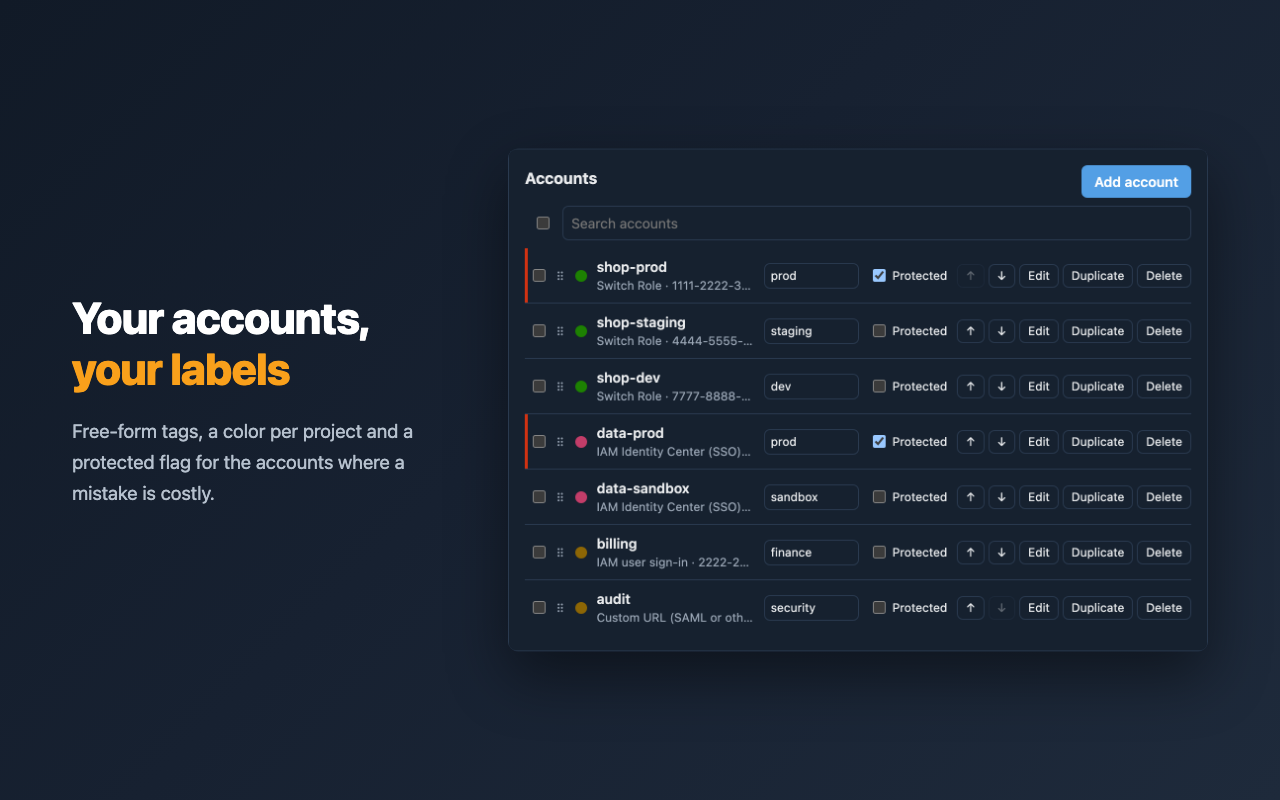
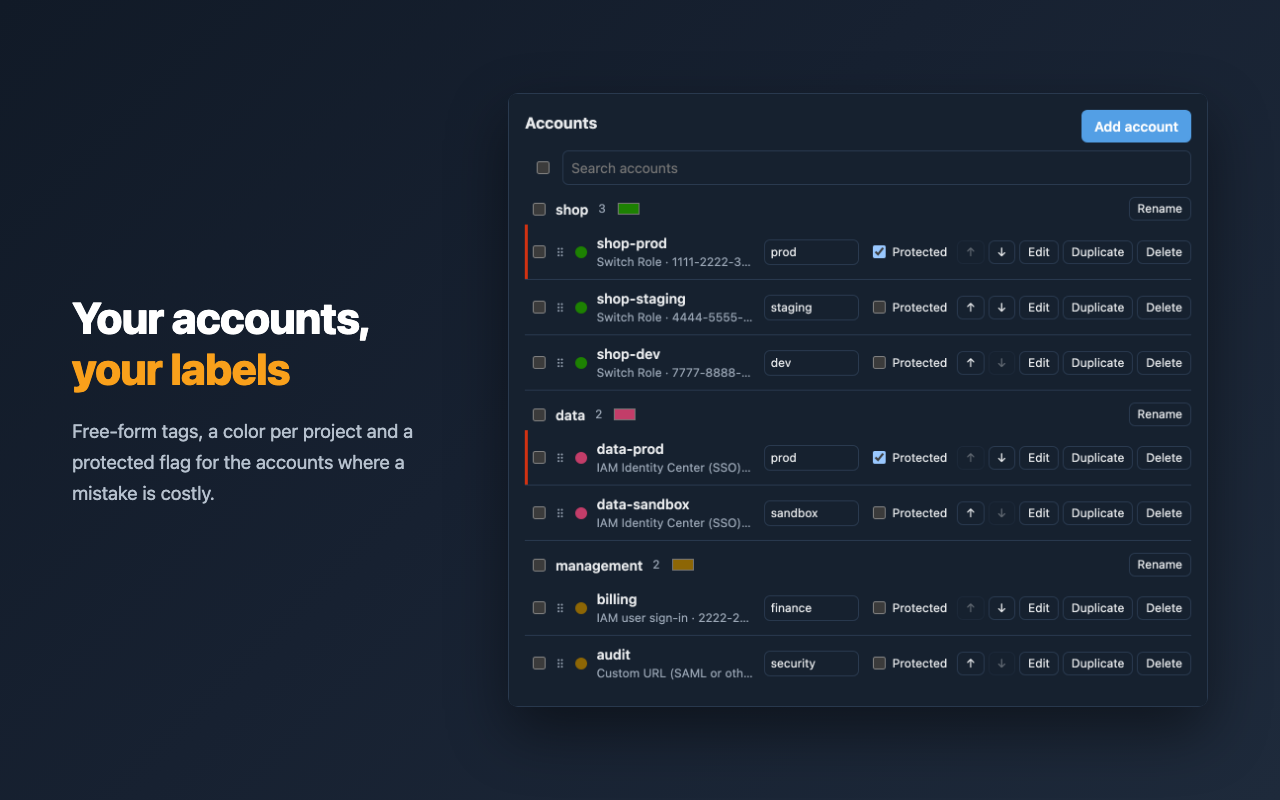
feat: group the options account list with per-group edit actions

diff --git a/src/options/list.js b/src/options/list.js
@@ -1,7 +1,9 @@
 import { t } from '../i18n/index.js';
-import { keepSelected, moveBy, moveNextTo, selectionState, selectRange, suggestionsFor } from '../lib/listEdit.js';
-import { normalizeProfile, profileColor, profileMeta, validateProfile } from '../lib/profile.js';
-import { filterProfiles } from '../lib/search.js';
+import {
+  bulkEdit, dropMove, groupColor, groupIds, keepSelected, moveBy, selectionState, selectRange, suggestionsFor,
+} from '../lib/listEdit.js';
+import { GROUP_MAX, normalizeProfile, profileColor, profileMeta, validateProfile } from '../lib/profile.js';
+import { filterProfiles, groupProfiles } from '../lib/search.js';
 import { SUGGESTED_TAGS, TAG_MAX } from '../lib/tag.js';
 import { getProvider } from '../providers/index.js';
 import { $, element, option } from './dom.js';
@@ -53,7 +55,7 @@ export function createAccountList({ store, profiles, reload, onEdit, undo }) {
   const shownIds = () => shown.map((profile) => profile.id);
   const allIds = () => profiles().map((profile) => profile.id);
 
-  function profileRow(profile, index, reorderable) {
+  function profileRow(profile, { reorderable, first, last }) {
     const row = element('li', profile.guarded ? 'profile guarded' : 'profile');
     row.dataset.id = profile.id;
     const pick = element('input', 'pick');
@@ -70,8 +72,8 @@ export function createAccountList({ store, profiles, reload, onEdit, undo }) {
     main.append(element('div', 'name', profile.name), element('div', 'meta', metaLine(profile)));
     const tools = element('div', 'tools');
     tools.append(
-      toolButton('↑', 'up', { disabled: !reorderable || index === 0, aria: t('options.moveUp') }),
-      toolButton('↓', 'down', { disabled: !reorderable || index === shown.length - 1, aria: t('options.moveDown') }),
+      toolButton('↑', 'up', { disabled: !reorderable || first, aria: t('options.moveUp') }),
+      toolButton('↓', 'down', { disabled: !reorderable || last, aria: t('options.moveDown') }),
       toolButton(t('options.edit'), 'edit'),
       toolButton(t('options.duplicate'), 'duplicate'),
       toolButton(t('options.delete'), 'delete'),
@@ -80,13 +82,41 @@ export function createAccountList({ store, profiles, reload, onEdit, undo }) {
     return row;
   }
 
+  function groupHead({ group, profiles: members }, all) {
+    const head = element('li', 'group-head');
+    head.dataset.group = group;
+    const name = group || t('options.group.none');
+    const pick = element('input', 'pick');
+    pick.type = 'checkbox';
+    pick.dataset.action = 'select-group';
+    pick.setAttribute('aria-label', t('options.group.selectOf', { name }));
+    head.append(pick, element('span', 'group-name', name), element('span', 'muted group-count', String(members.length)));
+    if (group) {
+      const color = element('input', 'group-color');
+      color.type = 'color';
+      color.value = groupColor(all, group) ?? profileColor(members[0]);
+      color.dataset.action = 'group-color';
+      color.setAttribute('aria-label', t('options.group.colorOf', { name }));
+      head.append(color, toolButton(t('options.group.rename'), 'rename-group', { aria: t('options.group.renameOf', { name }) }));
+    }
+    return head;
+  }
+
   // Search results are ranked rather than in the stored order, so moving a row there would land somewhere unexpected.
+  // Otherwise rows follow the popup: one block per group, so the arrows stay inside it and a drop can change it.
   function render() {
     const all = profiles();
-    shown = filterProfiles(all, query);
-    selected = keepSelected(selected, shownIds());
     const reorderable = !searching();
-    list.replaceChildren(...shown.map((profile, index) => profileRow(profile, index, reorderable)));
+    const sections = reorderable ? groupProfiles(all) : [{ group: '', profiles: filterProfiles(all, query) }];
+    const headed = sections.some((section) => section.group);
+    shown = sections.flatMap((section) => section.profiles);
+    selected = keepSelected(selected, shownIds());
+    list.replaceChildren(...sections.flatMap((section) => [
+      ...(headed ? [groupHead(section, all)] : []),
+      ...section.profiles.map((profile, index) => profileRow(profile, {
+        reorderable, first: index === 0, last: index === section.profiles.length - 1,
+      })),
+    ]));
     $('list-tools').hidden = all.length === 0;
     $('no-profiles').hidden = all.length > 0;
     $('no-match').hidden = all.length === 0 || shown.length > 0;
@@ -101,10 +131,16 @@ export function createAccountList({ store, profiles, reload, onEdit, undo }) {
     all.checked = state === 'all';
     all.indeterminate = state === 'some';
     all.disabled = shown.length === 0;
-    for (const row of list.children) {
+    for (const row of list.querySelectorAll('.profile')) {
       const on = selected.has(row.dataset.id);
       row.classList.toggle('selected', on);
       row.querySelector('[data-action="select"]').checked = on;
+    }
+    for (const head of list.querySelectorAll('.group-head')) {
+      const groupState = selectionState(selected, groupIds(shown, head.dataset.group));
+      const box = head.querySelector('[data-action="select-group"]');
+      box.checked = groupState === 'all';
+      box.indeterminate = groupState === 'some';
     }
     $('bulk-bar').hidden = selected.size === 0;
     $('bulk-count').textContent = t('options.bulk.count', { count: selected.size });
@@ -135,6 +171,48 @@ export function createAccountList({ store, profiles, reload, onEdit, undo }) {
     renderSelection();
   }
 
+  function toggleGroup(box) {
+    const ids = groupIds(shown, box.closest('.group-head').dataset.group);
+    const next = new Set(selected);
+    for (const id of ids) {
+      if (box.checked) next.add(id);
+      else next.delete(id);
+    }
+    setSelection([...next]);
+  }
+
+  async function saveChanged(next) {
+    if (next.length) await store.saveProfiles(next);
+    await reload();
+  }
+
+  /** Swaps the group name for an input; Enter or leaving it renames every account in the group, Escape cancels. */
+  function startRename(head) {
+    const from = head.dataset.group;
+    const input = element('input', 'group-rename');
+    input.value = from;
+    input.maxLength = GROUP_MAX;
+    input.setAttribute('aria-label', t('options.group.renameOf', { name: from }));
+    head.querySelector('.group-name').replaceWith(input);
+    input.focus();
+    input.select();
+    let done = false;
+    const finish = (save) => {
+      if (done) return undefined;
+      done = true;
+      if (!save || input.value.trim() === from) return render();
+      return saveChanged(bulkEdit(profiles(), groupIds(profiles(), from), { group: input.value }));
+    };
+    input.addEventListener('keydown', (event) => {
+      if (event.key === 'Enter') finish(true);
+      else if (event.key === 'Escape') {
+        event.preventDefault();
+        finish(false);
+      }
+    });
+    input.addEventListener('blur', () => finish(true));
+  }
+
   function setSelection(ids) {
     selected = new Set(ids);
     selectionAnchor = null;
@@ -144,13 +222,15 @@ export function createAccountList({ store, profiles, reload, onEdit, undo }) {
   list.addEventListener('click', async (event) => {
     // A click event, not change, because only the click carries the Shift key.
     if (event.target.dataset.action === 'select') return toggleSelected(event.target, event.shiftKey);
+    if (event.target.dataset.action === 'select-group') return toggleGroup(event.target);
     const button = event.target.closest('button[data-action]');
     if (!button) return undefined;
+    if (button.dataset.action === 'rename-group') return startRename(button.closest('.group-head'));
     const id = button.closest('.profile').dataset.id;
     const profile = profiles().find((other) => other.id === id);
     switch (button.dataset.action) {
-      case 'up': return reorder(moveBy(allIds(), id, -1));
-      case 'down': return reorder(moveBy(allIds(), id, 1));
+      case 'up': return reorder(moveBy(shownIds(), id, -1));
+      case 'down': return reorder(moveBy(shownIds(), id, 1));
       case 'edit': return onEdit(profile);
       case 'duplicate': return onEdit({ ...profile, id: null, name: t('options.copyName', { name: profile.name }) });
       case 'delete':
@@ -163,6 +243,11 @@ export function createAccountList({ store, profiles, reload, onEdit, undo }) {
   // Inline edits save on change (blur or Enter for the tag), so the list never needs a separate save button.
   list.addEventListener('change', (event) => {
     const action = event.target.dataset.action;
+    if (action === 'group-color') {
+      const { group } = event.target.closest('.group-head').dataset;
+      saveChanged(bulkEdit(profiles(), groupIds(profiles(), group), { color: event.target.value }));
+      return;
+    }
     if (action !== 'tag' && action !== 'guarded') return;
     const profile = profiles().find((other) => other.id === event.target.closest('.profile').dataset.id);
     updateInline(profile, action === 'tag' ? { tag: event.target.value } : { guarded: event.target.checked });
@@ -181,7 +266,11 @@ export function createAccountList({ store, profiles, reload, onEdit, undo }) {
 
   attachDrag(list, {
     canDrag: () => !searching(),
-    onDrop: (id, targetId, after) => reorder(moveNextTo(allIds(), id, targetId, after)),
+    onDrop: async (id, targetId, after) => {
+      const { order, regrouped } = dropMove(profiles(), shownIds(), id, targetId, after);
+      if (regrouped) await store.saveProfiles([regrouped]);
+      await reorder(order);
+    },
   });
 
   return {

diff --git a/tests/listEdit.test.js b/tests/listEdit.test.js
@@ -1,6 +1,6 @@
 import { describe, test, expect } from '@jest/globals';
 import {
-  bulkEdit, keepSelected, moveBy, moveNextTo, restoredOrder, selectionState, selectRange, suggestionsFor,
+  bulkEdit, dropMove, groupColor, groupIds, keepSelected, moveBy, moveNextTo, restoredOrder, selectionState, selectRange, suggestionsFor,
 } from '../src/lib/listEdit.js';
 import { normalizeProfile } from '../src/lib/profile.js';
 
@@ -98,6 +98,10 @@ describe('bulkEdit', () => {
     expect(bulkEdit(profiles, ['a', 'b'], { tag: '' }).map((p) => p.tag)).toEqual(['', '']);
   });
 
+  test('sets a color, normalized', () => {
+    expect(bulkEdit(profiles, ['b'], { color: '#ABCDEF' }).map((p) => p.color)).toEqual(['#abcdef']);
+  });
+
   test('ignores every other field', () => {
     expect(bulkEdit(profiles, ['a'], { name: 'renamed', id: 'z', fields: {} })).toEqual([]);
   });
@@ -127,5 +131,34 @@ describe('restoredOrder', () => {
 
   test('ids added since the delete go last, and ids removed since stay out', () => {
     expect(restoredOrder(['a', 'b', 'c'], ['b', 'x', 'c'])).toEqual(['b', 'c', 'x']);
+  });
+});
+
+describe('groups', () => {
+  const profiles = [
+    profile('a', { group: 'shop' }), profile('b', { group: 'data' }), profile('c', { group: 'shop' }), profile('d'),
+  ];
+
+  test('groupIds lists the members, and the empty name the accounts in no group', () => {
+    expect(groupIds(profiles, 'shop')).toEqual(['a', 'c']);
+    expect(groupIds(profiles, '')).toEqual(['d']);
+  });
+
+  test('groupColor is the color every member shares, else null', () => {
+    const colored = profiles.map((p) => (p.group === 'shop' ? { ...p, color: '#123456' } : p));
+    expect(groupColor(colored, 'shop')).toBe('#123456');
+    expect(groupColor(colored.map((p) => (p.id === 'c' ? { ...p, color: '#654321' } : p)), 'shop')).toBeNull();
+    expect(groupColor(profiles, 'shop')).toBeNull();
+    expect(groupColor(colored, '')).toBeNull();
+    expect(groupColor(colored, 'none')).toBeNull();
+  });
+
+  test('a drop moves the row and, onto another group, moves it into that group', () => {
+    const shown = ['a', 'c', 'b', 'd'];
+    expect(dropMove(profiles, shown, 'c', 'a', false)).toEqual({ order: ['c', 'a', 'b', 'd'], regrouped: null });
+    const across = dropMove(profiles, shown, 'd', 'b', true);
+    expect(across.order).toEqual(['a', 'c', 'b', 'd']);
+    expect([across.regrouped.id, across.regrouped.group]).toEqual(['d', 'data']);
+    expect(dropMove(profiles, shown, 'x', 'a', false).regrouped).toBeNull();
   });
 });

diff --git a/src/lib/listEdit.js b/src/lib/listEdit.js
@@ -1,7 +1,7 @@
 import { normalizeProfile } from './profile.js';
 
 // The fields the options page can change on many accounts at once.
-const BULK_FIELDS = Object.freeze(['tag', 'group', 'guarded']);
+const BULK_FIELDS = Object.freeze(['tag', 'group', 'guarded', 'color']);
 
 /** Moves `id` by `delta` places, stopping at either end. */
 export function moveBy(ids, id, delta) {
@@ -46,7 +46,7 @@ export function selectionState(selected, ids) {
   return count === ids.length ? 'all' : 'some';
 }
 
-/** The profiles in `ids` with the tag, group or guarded flag in `changes` applied, leaving out those it does not change. */
+/** The profiles in `ids` with the tag, group, guarded flag or color in `changes` applied, leaving out those it does not change. */
 export function bulkEdit(profiles, ids, changes) {
   const patch = Object.fromEntries(BULK_FIELDS.filter((key) => Object.hasOwn(changes, key)).map((key) => [key, changes[key]]));
   const chosen = new Set(ids);
@@ -69,4 +69,25 @@ export function restoredOrder(previous, current) {
   const present = new Set(current);
   const before = new Set(previous);
   return [...previous.filter((id) => present.has(id)), ...current.filter((id) => !before.has(id))];
+}
+
+/** The ids of the accounts in `group`; an empty group name means the accounts in none. */
+export function groupIds(profiles, group) {
+  return profiles.filter((profile) => profile.group === group).map((profile) => profile.id);
+}
+
+/** The color every account in `group` shares when one was chosen for all of them, else null. */
+export function groupColor(profiles, group) {
+  if (!group) return null;
+  const colors = new Set(profiles.filter((profile) => profile.group === group).map((profile) => profile.color));
+  return colors.size === 1 ? [...colors][0] : null;
+}
+
+/** Where a dragged row lands: the new order, and its profile moved into the target row's group when that differs. */
+export function dropMove(profiles, ids, id, targetId, after) {
+  const byId = new Map(profiles.map((profile) => [profile.id, profile]));
+  const source = byId.get(id);
+  const target = byId.get(targetId);
+  const regrouped = source && target && source.group !== target.group ? normalizeProfile({ ...source, group: target.group }) : null;
+  return { order: moveNextTo(ids, id, targetId, after), regrouped };
 }

diff --git a/src/options/editor.js b/src/options/editor.js
@@ -1,5 +1,6 @@
 import { richText } from '../i18n/dom.js';
 import { t } from '../i18n/index.js';
+import { groupColor } from '../lib/listEdit.js';
 import { accountFromHash } from '../lib/messages.js';
 import {
   buildProfileUrl, fieldValues, FIELD_PREFIX, GROUP_MAX, NAME_MAX, normalizeProfile, profileColor, sameTargetAs, validateProfile,
@@ -56,7 +57,8 @@ export function createEditor({ store, profiles, reload }) {
       provider: data.get('provider'),
       tag: data.get('tag'),
       guarded: form.elements.guarded.checked,
-      color: form.elements.autoColor.checked ? null : data.get('color'),
+      // Automatic color follows a color chosen for the whole group, so a new member matches the others.
+      color: form.elements.autoColor.checked ? groupColor(profiles(), String(data.get('group') ?? '').trim()) : data.get('color'),
       group: data.get('group'),
       fields: currentFieldValues(),
     });

diff --git a/src/options/options.css b/src/options/options.css
@@ -316,3 +316,20 @@ dialog::backdrop { background: rgba(0, 0, 0, 0.45); }
 .undo-bar[hidden] { display: none; }
 .undo-bar span { flex: 1; }
 .undo-bar button { padding: 2px 10px; font-size: 12px; }
+
+.group-head {
+  display: flex;
+  gap: 10px;
+  align-items: center;
+  padding: 12px 0 4px 8px;
+  border-top: 1px solid var(--line);
+  font-weight: 600;
+}
+
+.group-head:first-child { border-top: 0; padding-top: 4px; }
+.group-head + .profile { border-top: 0; }
+.group-head .pick { margin: 0; }
+.group-count { font-weight: normal; font-size: 12px; }
+.group-color { width: 26px; height: 20px; padding: 0; border: 0; background: none; cursor: pointer; }
+.group-head button { margin-left: auto; padding: 2px 8px; font-size: 12px; font-weight: normal; }
+.group-rename { width: 200px; padding: 2px 6px; font-weight: 600; }

diff --git a/src/i18n/ko.js b/src/i18n/ko.js
@@ -169,6 +169,11 @@ export default Object.freeze({
   'options.bulk.clear': '선택 해제',
   'options.bulk.help': '태그나 그룹을 비운 채 지정하면 지워집니다.\nShift를 누른 채 체크박스를 누르면 그 계정까지 한꺼번에 선택합니다.',
   'options.undo': '되돌리기',
+  'options.group.none': '그룹 없음',
+  'options.group.selectOf': '{name} 그룹 계정 모두 선택',
+  'options.group.rename': '이름 바꾸기',
+  'options.group.renameOf': '{name} 그룹의 새 이름',
+  'options.group.colorOf': '{name} 그룹 색',
   'options.undo.deleted': '{names} 계정을 삭제했습니다.',
   'options.bulk.confirmDelete': '계정 {count}개를 삭제할까요?\n{names}',
 

diff --git a/src/i18n/en.js b/src/i18n/en.js
@@ -170,6 +170,11 @@ export default Object.freeze({
   'options.bulk.clear': 'Clear selection',
   'options.bulk.help': 'Setting an empty tag or group clears it.\nShift-click a box to select every account up to it.',
   'options.undo': 'Undo',
+  'options.group.none': 'No group',
+  'options.group.selectOf': 'Select every account in {name}',
+  'options.group.rename': 'Rename',
+  'options.group.renameOf': 'New name for {name}',
+  'options.group.colorOf': 'Color of {name}',
   'options.undo.deleted': 'Deleted {names}.',
   'options.bulk.confirmDelete': 'Delete these {count} accounts?\n{names}',
 

diff --git a/README.md b/README.md
@@ -42,11 +42,13 @@ Environments differ from project to project, so AWS Hop does not impose any. Eac
 | Setting | What it does |
 |---|---|
 | **Tag** | A short label on the popup badge and the console label, such as `prod`, `qa` or `dr`. Tags you have used before are suggested |
-| **Group** | Lists related accounts together under one heading, usually a project |
+| **Group** | Lists related accounts together under one heading, usually a project. There is nothing to create: accounts with the same group name form the group |
 | **Color** | Picked automatically from the group, or from the first word of the name without one, so `shop-prod` and `shop-dev` share a color. You can choose your own |
 | **Protected** | Frames the console in red and prefixes the tab title with the account name. Turn it on for every account where a mistake is costly; there can be as many as you like, and the name prefix keeps their tabs apart |
 
 The tag and the protected flag can be changed straight from the account list in the options. The list can be searched, and reordered by dragging a row by its handle or with its arrow buttons; reordering pauses while a search is active, because results are ranked. Tick several accounts, or Shift-click to tick every account up to one, to set their tag or group, protect or unprotect them, or delete them in one go. A delete can be undone for a few seconds afterwards.
+
+The options list is laid out by group, like the popup. A group's heading selects all of its accounts, renames the group, or picks one color for all of them, which new accounts in the group then take; dropping a row on another group moves the account into it.
 
 <br/>
 

diff --git a/docs/DESCRIPTION.md b/docs/DESCRIPTION.md
@@ -29,7 +29,7 @@ Account guard
 
 Your accounts, your labels
 - Free-form tags (prod, qa, a project name), a color per project and a protected flag
-- A long list stays manageable in the options: search it, drag accounts into order, and change the tag, group or protection of many accounts at once
+- A long list stays manageable in the options: laid out by group, searchable, with drag to reorder or regroup, and the tag, group or protection of many accounts changed at once
 - Type to filter in the popup, then arrow keys and Enter; Alt+Shift+A opens it. Recently opened accounts come first, and protected accounts can be set to need a second Enter
 - Or skip the popup: type aws and an account name in the address bar
 - With the console's multi-session support, an account that is already signed in opens straight in its own session instead of the session picker
